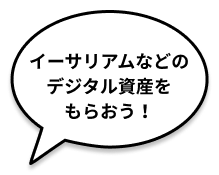
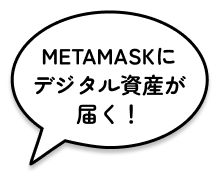
a

diff --git a/src/app/(index)/components/howto.tsx b/src/app/(index)/components/howto.tsx
@@ -11,20 +11,50 @@ const Howto = () => {
         </h4>
         <div className="bg-white [box-shadow:0px_4px_100px_0px_rgba(0,_0,_0,_0.10)] w-full max-w-[1140px] mx-auto mt-10 md:mt-[64px] p-5 md:pb-10">
             <h5 className="fade-up text-center md:text-[64px] text-[32px] font-black">使い方</h5>
-            <div className="fade-up flex max-md:flex-col max-md:divide-y md:divide-x divide-black md:mt-7 mt-4">
-                <div className="lg:px-[55px] px-5 flex flex-col items-center md:w-1/2 pt-10 md:pb-[60px] pb-12">
+            <div className="fade-up grid md:grid-cols-2 md:gap-y-20 gap-y-10  md:mt-7 mt-4">
+                <div className="lg:px-[55px] px-5 flex flex-col items-center ">
                     <div className="w-full max-w-[350px] bg-[#FFE746] rounded-[70px] flex items-center">
                         <img className="max-md:w-12 my-[-4px]" src="/assets/images/ic-01.svg" alt="" />
                         <span className="md:text-[24px] text-[18px] font-black leading-none flex-1 pl-2 md:pl-4">アプリをダウンロード</span>
                     </div>
-                    <a href="https://metamask.io/" target="_blank" className="md:mt-10 mt-7 duration-150 hover:opacity-75">
-                        <img src="/assets/images/metamask-logo.png" alt="" />
-                    </a>
+                    <div className="flex justify-center md:mt-10 mt-6">
+                        <img src="/assets/images/howto-01.png" alt="" />
+                    </div>
+                    <div className="flex md:gap-10 gap-5 md:mt-6 mt-4">
+                        <a href="http://" target="_blank" rel="noopener noreferrer">
+                        <img src="/assets/images/btn-google.png" alt="" /></a>
+                        <a href="http://" target="_blank" rel="noopener noreferrer">
+                        <img src="/assets/images/btn-apple.png" alt="" /></a>
+                    </div>
                 </div>
-                <div className="lg:px-[55px] px-5 flex flex-col items-center md:w-1/2 pt-10 md:pb-[60px] pb-12">
+                <div className="lg:px-[55px] px-5 flex flex-col items-center md:border-l border-black">
                     <div className="w-full max-w-[350px] bg-[#FFE746] rounded-[70px] flex items-center">
                         <img className="max-md:w-12 my-[-4px]" src="/assets/images/ic-02.svg" alt="" />
-                        <span className="md:text-[24px] text-[18px] font-black leading-none flex-1 pl-2 md:pl-4">QRコードを撮影</span>
+                        <span className="md:text-[24px] text-[18px] font-black leading-none flex-1 pl-2 md:pl-4">ウォレット新規作成</span>
+                    </div>
+                    <div className="flex justify-center md:mt-10 mt-6">
+                        <img src="/assets/images/howto-02.png" alt="" />
+                    </div>
+                    <div className="flex md:gap-10 gap-5 md:mt-6 mt-4 md:text-[16px] text-[13px] w-full max-w-[322px] mx-auto">
+                        新規ウォレットを作成より、ウォレットを作成してください
+                    </div>
+                </div>
+                <div className="lg:px-[55px] px-5 flex flex-col items-center ">
+                    <div className="w-full max-w-[350px] bg-[#FFE746] rounded-[70px] flex items-center">
+                        <img className="max-md:w-12 my-[-4px]" src="/assets/images/ic-03.svg" alt="" />
+                        <span className="md:text-[24px] text-[17px] font-black leading-none flex-1 pl-2 md:pl-2">レシート提出<span className="md:text-[18px] text-[13px]">(アップロード)</span></span>
+                    </div>
+                    <div className="flex justify-center md:mt-10 mt-6">
+                        <img src="/assets/images/howto-03.png" alt="" />
+                    </div>
+                    <div className="flex md:gap-10 gap-5 md:mt-6 mt-4 md:text-[16px] text-[13px] w-full max-w-[322px] mx-auto">
+                    公式LINEから、レシートまたは領収書の写真をお送りください。<br />※作成したウォレットアドレスもお知らせください
+                    </div>
+                </div>
+                <div className="lg:px-[55px] px-5 flex flex-col items-center md:border-l border-black">
+                    <div className="w-full max-w-[350px] bg-[#FFE746] rounded-[70px] flex items-center">
+                        <img className="max-md:w-12 my-[-4px]" src="/assets/images/ic-04.svg" alt="" />
+                        <span className="md:text-[24px] text-[18px] font-black leading-none flex-1 pl-2 md:pl-4">デジタル資産の受取り</span>
                     </div>
                     <div className="md:mt-10 mt-7 flex justify-center">
                         <div className="relative">

diff --git a/src/app/(index)/components/champion.tsx b/src/app/(index)/components/champion.tsx
@@ -72,7 +72,7 @@ const Champion = () => {
           <div className="w-full max-w-[790px] h-full py-10 px-5">
             <p className="md:text-[18px] text-[15px] font-bold md:py-10 py-5 px-2">
               期間限定のスペシャルイベント <br />
-            「年間獲得チャンピオンは誰だ？！」が開催中！<br /><br />COIN TOGETHERでイーサリアム(ETH)をたくさん獲得して、頂点を目指そう！<br />
+            <span className="font-bold text-[20px] md:text-[28px] lg:text-[32px]">「年間獲得チャンピオンは誰だ？！」が開催中！</span><br /><br />COIN TOGETHERでイーサリアム(ETH)をたくさん獲得して、頂点を目指そう！<br />
               期間中に最も多くのETHを獲得したユーザーには、栄光の称号「COIN TOGETHER イーサリアムエンペラー」が授与されます！
             </p>
             <div className="border-y border-black md:py-10 py-5 space-y-3 md:text-[18px] text-[15px] font-bold">
@@ -80,18 +80,16 @@ const Champion = () => {
               <p className="text-center pb-5">2024年12月10日〜2024年12月10日</p>
               <p className="text-center">【参加方法】</p>
               <div className="w-full max-w-[600px] mx-auto">
-                ①アプリをダウンロードし、アカウントを作成 <br />
-                <br />
+                ①METAMASKをダウンロードし、アカウントを作成 <br /><br />
                 ②提携店舗やサービスでお買い物・お支払いをして、ETHを獲得。獲得したETHは自動的にランキングに反映されます。
               </div>
             </div>
-            <div className="md:py-10 pt-5 pb-10">
-              <p className="text-center md:text-[24px] text-[20px]">イベント詳細</p>
-
-              <div className="flex justify-center md:mt-[30px] mt-5 gap-5">
-                <a href="http://" target="_blank" rel="noopener noreferrer"><img src="/assets/images/btn-google.png" alt="" /></a>
-                <a href="http://" target="_blank" rel="noopener noreferrer"><img src="/assets/images/btn-apple.png" alt="" /></a>
-              </div>
+            <div className="md:py-10 pt-5 pb-10 border-t border-black/30">
+            <div className="flex items-center justify-center flex-col">
+                        <p className="md:text-[18px] text-[16px] font-black mb-3 leading-none text-center">METAMASKをダウンロード</p>
+                        <a href="https://metamask.io/" target="_blank" className="duration-150 hover:opacity-75">
+                        <img src="/assets/images/metamask.png" alt="" /></a>
+                    </div>
             </div>
             </div>
           </div>

diff --git a/src/app/ranking/page.tsx b/src/app/ranking/page.tsx
@@ -1,11 +1,11 @@
 export default function Ranking() {
   return (
     <main>
-        <div className="bg-[url('/assets/images/ranking-bg.png')] bg-cover bg-center flex items-center justify-center pt-[120px] h-[80vh] md:h-[70vh] min-h-[120vw] md:min-h-[700px]">
+        <div className="bg-[url('/assets/images/ranking-bg.png')] bg-cover bg-center flex items-center justify-center pt-[120px] h-[160vw] md:h-[70vh] md:min-h-[700px]">
             <div className="w-full max-w-[1266px] mx-auto pb-10 flex justify-center">
                 <div className="relative">
-                    <img className="max-md:w-[60vw] max-dt:w-[40.764vw]" src="/assets/images/ranking-img.png" alt="" />
-                    <div className="absolute left-[70%] md:left-full w-[36vw] md:w-[27.292vw] dt:w-[393px] top-[-30%] md:top-0">
+                    <img className="max-md:w-[90vw] max-dt:w-[40.764vw]" src="/assets/images/ranking-img.png" alt="" />
+                    <div className="absolute left-[60%] md:left-full w-[40vw] md:w-[27.292vw] dt:w-[393px] top-[-32%] md:top-0">
                         <img className="animate-[anim-bounce_1.6s_infinite_ease-in-out]" src="/assets/images/ranking-bubble.png" alt="" />
                     </div>
                 </div>

diff --git a/src/app/(index)/components/coinTogether.tsx b/src/app/(index)/components/coinTogether.tsx
@@ -7,7 +7,7 @@ const CoinTogether = () => {
       <section ref={ref} className="relative bg-[url('/assets/images/bg-coin.png')] bg-cover pt-20 md:pt-[120px] pb-16 px-5">
         <div className="w-full max-w-[1326px] mx-auto">
             <div className="flex justify-between max-md:flex-col">
-                <div className="md:flex grid max-md:grid-cols-3 md:flex-col items-center gap-5 md:gap-10">
+                <div className="max-md:hidden md:flex grid max-md:grid-cols-3 md:flex-col items-center gap-5 md:gap-10">
                     <img className="fade-up" src="/assets/images/coin-img-01.png" alt="" />
                     <img className="fade-up" src="/assets/images/coin-img-02.png" alt="" />
                     <img className="fade-up" src="/assets/images/coin-img-03.png" alt="" />

diff --git a/src/app/company/page.tsx b/src/app/company/page.tsx
@@ -4,7 +4,7 @@ import useScrollAnimations from "@/hooks/useScrollAnimations";
 export default function Company() {
   const ref = useScrollAnimations();
   return (
-    <section className="bg-[#73E3DC]">
+    <section className="bg-[#FFFEEA]">
       <div className="px-5 md:pb-[120px] pb-20">
         <div className="md:pb-16 pb-12"><PageTitle>運営会社</PageTitle></div>
           <div className="mx-auto w-full max-w-[1350px] bg-black max-md:bg-[length:140%_auto] bg-no-repeat bg-right bg-cover px-5 py-12 md:py-16">

diff --git a/src/app/(index)/components/introduction.tsx b/src/app/(index)/components/introduction.tsx
@@ -186,7 +186,7 @@ const Introduction = () => {
   return (
     <section
       ref={ref}
-      className="relative bg-[#F0F1F3] pt-16 md:pt-[120px] pb-20 md:pb-[130px]"
+      className="relative bg-[#F0F1F3] pt-12 md:pt-[120px] pb-20 md:pb-[130px]"
     >
       <div className="w-full md:max-w-[1440px] max-w-[540px] mx-auto">
         <h3 className="text-center font-black text-[6vw] md:text-[6.667vw] dt:text-[96px] leading-none tracking-widest">

diff --git a/src/app/privacy-policy/page.tsx b/src/app/privacy-policy/page.tsx
@@ -7,7 +7,7 @@ import useScrollAnimations from "@/hooks/useScrollAnimations";
 export default function PrivacyPolicy() {
   const ref = useScrollAnimations();
   return (
-    <section className="bg-[#73E3DC]">
+    <section className="bg-[#FFFEEA]">
       <PageTitle>プライバシーポリシー</PageTitle>
       <div className="px-5 mt-7 md:mt-10">
         <div className="font-worksans mx-auto w-full max-w-[1190px]">

diff --git a/src/app/terms-of-service/page.tsx b/src/app/terms-of-service/page.tsx
@@ -5,7 +5,7 @@ import TextBlock from "@/components/textBlock";
 
 export default function TermsOfService() {
   return (
-    <section className="bg-[#73E3DC]">
+    <section className="bg-[#FFFEEA]">
       <PageTitle>利用規約</PageTitle>
       <div className="px-5 mt-7 md:mt-10">
         <div className="mx-auto pb-16 pt-5 w-full max-w-[1000px] space-y-14 md:pb-20 md:pt-11">
